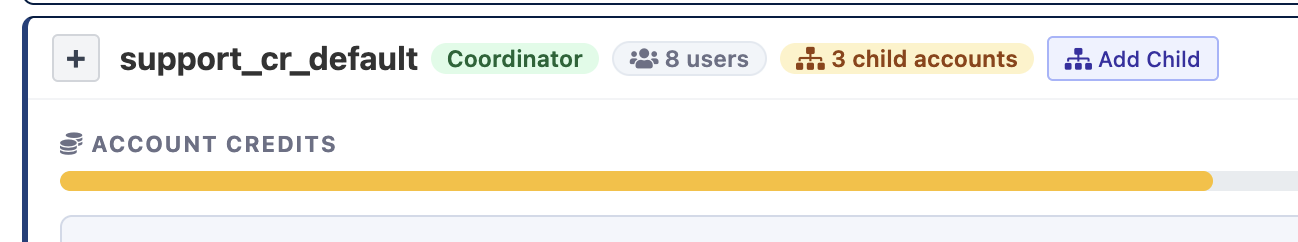
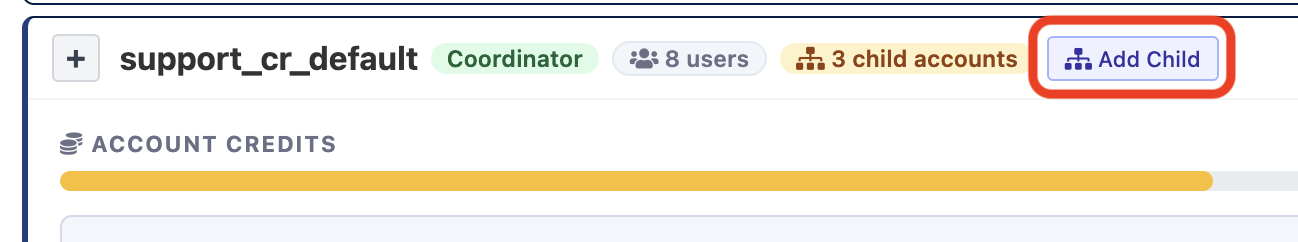
typo fixing in my_account content

Changed region(s): [[0.7704, 0.0579, 0.9553, 0.4339]]

diff --git a/docs/accounts/managing-compute-2.md b/docs/accounts/managing-compute-2.md
@@ -99,9 +99,8 @@ Credit accounts can serve as parents to one or more child accounts, allowing the
 in the parent account to be shared with the child accounts.
 
 Child account names take the form of `<prefix>_crch_<suffix>` where the prefix is set to that 
-of the parent account. Child accounts can have custom suffixes but must inherit the prefix of the parent account.
-
-For example, for a parent account named `research_cr_default`, the child account 
+of the parent account. Child accounts can have custom suffixes but must inherit the prefix 
+of the parent account. For example, for a parent account named `research_cr_default`, the child account 
 `research_crch_professor1` is valid where `research2_crch_default` is not.
 
 To create a child account, click the "Add Child" button located next to the top of the 
@@ -115,7 +114,8 @@ any users(2) and coordinators(3) to be added to the child account. Then click "C
 ![Create Child Account on Slurm Account Manager](../img/acct-mgr-create.png)
 
 Once the child account is created, 
-[additional users and coordinators can be added](#manage-users-and-coordinators) as well.
+[additional users and coordinators can be added](#manage-users-and-coordinators) and 
+[credit usage limits](#setting-usage-limits) can be set as well.
 
 #### Setting usage limits
 
@@ -134,9 +134,7 @@ user limits, click the checkbox before each target user and choose the "Selected
 option.
 
 For account level limits, choose "Account"(2). Please note account limits can only be set 
-on accounts by coordinators of the parent account.
-
-Then click "Set"(3) to activate.
+on accounts by coordinators of the parent account. Then click "Set"(3) to activate.
 
 ![Set available credit limits on Slurm Account Manager](../img/acct-mgr-set-limit.png)
 

diff --git a/docs/accounts/managing-compute.md b/docs/accounts/managing-compute.md
@@ -87,7 +87,6 @@ Clicking "Make Coordinator Only"(2) removes only user permissions while maintain
 
 To remove all access, select users to remove by clicking the checkbox next to their ID(1) and 
 clicking the "Remove Selected Users" button(2).
->>>>>>> e5b544a (updated my_account details)
 
 ![Remove Selected Users on Slurm Account Manager](../img/acct-mgr-remove.png)
 
@@ -99,14 +98,14 @@ clicking the "Remove Selected Users" button(2).
 #### On the command line
 
 Account coordinators can add users and coordinators using `my_account add`. Use the arguments 
-`user=` and `coordinator=` to indicate the role you wish to assign
+`user=` and `coordinator=` to indicate the role you wish to assign.
 
 ```
 my_account add account=<child_crch_account> user=<userid> coordinator=<userid>
 
 ```
 
-To remove users, `my_account remove` can be used
+To remove users, `my_account remove` can be used.
 
 ```
 my_account remove account=<child_crch_account> user=<userid> coordinator=<userid>
@@ -124,9 +123,8 @@ Credit accounts can serve as parents to one or more child accounts, allowing the
 credits in the parent account to be shared with the child accounts.
 
 Child account names take the form of `<prefix>_crch_<suffix>` where the prefix is set to that 
-of the parent account. Child accounts can have custom suffixes but must inherit the prefix of the parent account.
-
-For example, for a parent account named `research_cr_default`, the child account 
+of the parent account. Child accounts can have custom suffixes but must inherit the prefix 
+of the parent account. For example, for a parent account named `research_cr_default`, the child account 
 `research_crch_professor1` is valid where `research2_crch_default` is not.
 
     